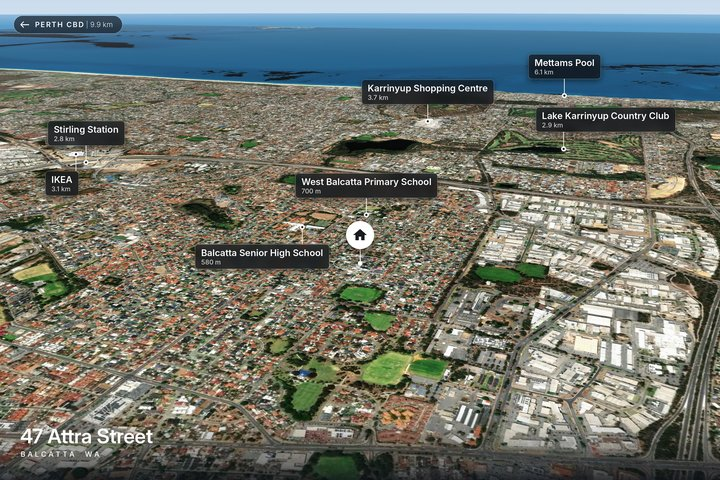
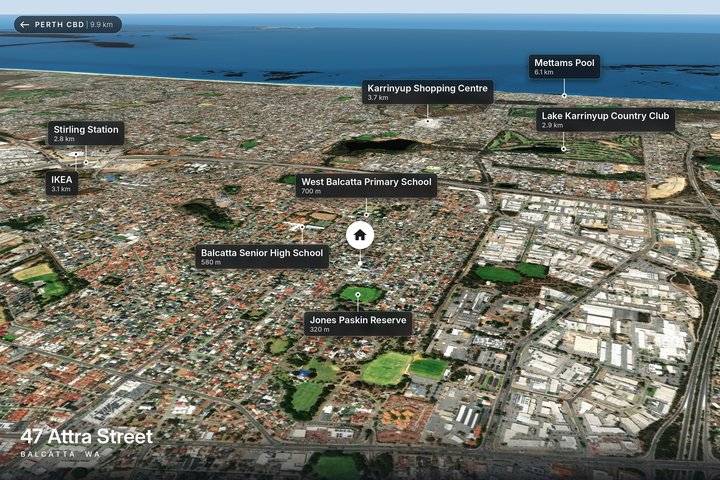
47 Attra St: location maps (clean + red), Jones Paskin Reserve marked
Claude-Session: https://claude.ai/code/session_01A5qGg2LnJXxgSHoMQFvEEG

Changed region(s): [[0.3972, 0.5938, 0.5806, 0.7188]]

diff --git a/aerials/27-oct-2026/index.html b/aerials/27-oct-2026/index.html
@@ -5,4 +5,4 @@ body{margin:0;background:var(--bg);color:var(--fg);font:15px/1.45 system-ui,-app
 header,section{max-width:1400px;margin:auto;padding:18px 16px}h1{font-size:20px;margin:0}h2{font-size:17px;margin:0}header p,section p{color:var(--mut);margin:4px 0 0}
 .ed{margin-left:10px;color:var(--acc);font-weight:600;text-decoration:none}a{color:var(--acc)}
 .chk{margin-top:10px}.chk summary{cursor:pointer;color:var(--mut);font-weight:600}.chk iframe{width:100%;height:420px;border:0;border-radius:6px;margin-top:6px;background:#111}.g{display:grid;grid-template-columns:repeat(auto-fill,minmax(280px,1fr));gap:8px;margin-top:10px}.g img{width:100%;display:block;border-radius:4px}</style></head>
-<body><header><h1>Drone edits — Tue 27 Oct 2026</h1><p>Tap a photo for full size. <b>Edit</b> opens the job in the <a href="/pins/">editor</a> with all its pins and settings.</p></header><section><h2>218 North Beach Dr, Tuart Hill</h2><p>Stephanie Briers · Professionals · 13 photos <a class="ed" href="/pins/?open=27-oct-2026/218_north_beach_dr">Edit</a></p><div class="g"><a href="218_north_beach_dr/dji_fly_20261027_150818_0904_1793084705926_photo.jpg?v=1793133531" target="_blank"><img loading="lazy" src="218_north_beach_dr/t/dji_fly_20261027_150818_0904_1793084705926_photo.jpg?v=1793133531" alt=""></a><a href="218_north_beach_dr/dji_fly_20261027_150852_0906_1793084703012_photo.jpg?v=1793133531" target="_blank"><img loading="lazy" src="218_north_beach_dr/t/dji_fly_20261027_150852_0906_1793084703012_photo.jpg?v=1793133531" alt=""></a><a href="218_north_beach_dr/dji_fly_20261027_150910_0907_1793084701634_photo.jpg?v=1793133531" target="_blank"><img loading="lazy" src="218_north_beach_dr/t/dji_fly_20261027_150910_0907_1793084701634_photo.jpg?v=1793133531" alt=""></a><a href="218_north_beach_dr/dji_fly_20261027_150938_0908_1793084700212_photo.jpg?v=1793133531" target="_blank"><img loading="lazy" src="218_north_beach_dr/t/dji_fly_20261027_150938_0908_1793084700212_photo.jpg?v=1793133531" alt=""></a><a href="218_north_beach_dr/dji_fly_20261027_150948_0909_1793084698807_photo.jpg?v=1793133531" target="_blank"><img loading="lazy" src="218_north_beach_dr/t/dji_fly_20261027_150948_0909_1793084698807_photo.jpg?v=1793133531" alt=""></a><a href="218_north_beach_dr/dji_fly_20261027_151000_0910_1793084697396_photo.jpg?v=1793133531" target="_blank"><img loading="lazy" src="218_north_beach_dr/t/dji_fly_20261027_151000_0910_1793084697396_photo.jpg?v=1793133531" alt=""></a><a href="218_north_beach_dr/dji_fly_20261027_151032_0911_1793084695909_photo.jpg?v=1793133531" target="_blank"><img loading="lazy" src="218_north_beach_dr/t/dji_fly_20261027_151032_0911_1793084695909_photo.jpg?v=1793133531" alt=""></a><a href="218_north_beach_dr/dji_fly_20261027_151100_0912_1793084694451_photo.jpg?v=1793133531" target="_blank"><img loading="lazy" src="218_north_beach_dr/t/dji_fly_20261027_151100_0912_1793084694451_photo.jpg?v=1793133531" alt=""></a><a href="218_north_beach_dr/dji_fly_20261027_151114_0913_1793084693051_photo.jpg?v=1793133531" target="_blank"><img loading="lazy" src="218_north_beach_dr/t/dji_fly_20261027_151114_0913_1793084693051_photo.jpg?v=1793133531" alt=""></a><a href="218_north_beach_dr/dji_fly_20261027_151128_0914_1793084691646_photo.jpg?v=1793133531" target="_blank"><img loading="lazy" src="218_north_beach_dr/t/dji_fly_20261027_151128_0914_1793084691646_photo.jpg?v=1793133531" alt=""></a><a href="218_north_beach_dr/dji_fly_20261027_151138_0915_1793084690227_photo.jpg?v=1793133531" target="_blank"><img loading="lazy" src="218_north_beach_dr/t/dji_fly_20261027_151138_0915_1793084690227_photo.jpg?v=1793133531" alt=""></a><a href="218_north_beach_dr/dji_fly_20261027_151152_0916_1793084688823_photo.jpg?v=1793133531" target="_blank"><img loading="lazy" src="218_north_beach_dr/t/dji_fly_20261027_151152_0916_1793084688823_photo.jpg?v=1793133531" alt=""></a><a href="218_north_beach_dr/dji_fly_20261027_151200_0917_1793084687391_photo.jpg?v=1793133531" target="_blank"><img loading="lazy" src="218_north_beach_dr/t/dji_fly_20261027_151200_0917_1793084687391_photo.jpg?v=1793133531" alt=""></a></div></section><section><h2>41 St Kilda Rd, Balga</h2><p>Emma Scharf · Professionals · 9 photos <a class="ed" href="/pins/?open=27-oct-2026/41_st_kilda_rd">Edit</a></p><div class="g"><a href="41_st_kilda_rd/dji_fly_20261027_120152_0892_1793084725908_photo.jpg?v=1793133538" target="_blank"><img loading="lazy" src="41_st_kilda_rd/t/dji_fly_20261027_120152_0892_1793084725908_photo.jpg?v=1793133538" alt=""></a><a href="41_st_kilda_rd/dji_fly_20261027_120208_0893_1793084724563_photo.jpg?v=1793133538" target="_blank"><img loading="lazy" src="41_st_kilda_rd/t/dji_fly_20261027_120208_0893_1793084724563_photo.jpg?v=1793133538" alt=""></a><a href="41_st_kilda_rd/dji_fly_20261027_120238_0894_1793084723192_photo.jpg?v=1793133538" target="_blank"><img loading="lazy" src="41_st_kilda_rd/t/dji_fly_20261027_120238_0894_1793084723192_photo.jpg?v=1793133538" alt=""></a><a href="41_st_kilda_rd/dji_fly_20261027_120258_0895_1793084721818_photo.jpg?v=1793133538" target="_blank"><img loading="lazy" src="41_st_kilda_rd/t/dji_fly_20261027_120258_0895_1793084721818_photo.jpg?v=1793133538" alt=""></a><a href="41_st_kilda_rd/dji_fly_20261027_120318_0896_1793084720496_photo.jpg?v=1793133538" target="_blank"><img loading="lazy" src="41_st_kilda_rd/t/dji_fly_20261027_120318_0896_1793084720496_photo.jpg?v=1793133538" alt=""></a><a href="41_st_kilda_rd/dji_fly_20261027_120334_0897_1793084719060_photo.jpg?v=1793133538" target="_blank"><img loading="lazy" src="41_st_kilda_rd/t/dji_fly_20261027_120334_0897_1793084719060_photo.jpg?v=1793133538" alt=""></a><a href="41_st_kilda_rd/dji_fly_20261027_120400_0898_1793084717514_photo.jpg?v=1793133538" target="_blank"><img loading="lazy" src="41_st_kilda_rd/t/dji_fly_20261027_120400_0898_1793084717514_photo.jpg?v=1793133538" alt=""></a><a href="41_st_kilda_rd/dji_fly_20261027_120412_0899_1793084715431_photo.jpg?v=1793133538" target="_blank"><img loading="lazy" src="41_st_kilda_rd/t/dji_fly_20261027_120412_0899_1793084715431_photo.jpg?v=1793133538" alt=""></a><a href="41_st_kilda_rd/dji_fly_20261027_123924_0900_1793084713356_photo.jpg?v=1793133538" target="_blank"><img loading="lazy" src="41_st_kilda_rd/t/dji_fly_20261027_123924_0900_1793084713356_photo.jpg?v=1793133538" alt=""></a></div></section><section><h2>4/17 Forest Hill Dr, Kingsley</h2><p>James Kennedy · Professionals Kingsley · 8 photos <a class="ed" href="/pins/?open=27-oct-2026/4_17_forest_hill_dr">Edit</a><a class="ed" href="4_17_forest_hill_dr/check.html" target="_blank">Check map</a></p><div class="g"><a href="4_17_forest_hill_dr/DJI_20261027190736_0143_D.jpg?v=1793228198" target="_blank"><img loading="lazy" src="4_17_forest_hill_dr/t/DJI_20261027190736_0143_D.jpg?v=1793228198" alt=""></a><a href="4_17_forest_hill_dr/DJI_20261027190751_0144_D.jpg?v=1793228198" target="_blank"><img loading="lazy" src="4_17_forest_hill_dr/t/DJI_20261027190751_0144_D.jpg?v=1793228198" alt=""></a><a href="4_17_forest_hill_dr/DJI_20261027190811_0145_D.jpg?v=1793228198" target="_blank"><img loading="lazy" src="4_17_forest_hill_dr/t/DJI_20261027190811_0145_D.jpg?v=1793228198" alt=""></a><a href="4_17_forest_hill_dr/DJI_20261027190831_0146_D.jpg?v=1793228198" target="_blank"><img loading="lazy" src="4_17_forest_hill_dr/t/DJI_20261027190831_0146_D.jpg?v=1793228198" alt=""></a><a href="4_17_forest_hill_dr/DJI_20261027190850_0147_D.jpg?v=1793228199" target="_blank"><img loading="lazy" src="4_17_forest_hill_dr/t/DJI_20261027190850_0147_D.jpg?v=1793228199" alt=""></a><a href="4_17_forest_hill_dr/DJI_20261027190910_0148_D.jpg?v=1793228199" target="_blank"><img loading="lazy" src="4_17_forest_hill_dr/t/DJI_20261027190910_0148_D.jpg?v=1793228199" alt=""></a><a href="4_17_forest_hill_dr/DJI_20261027190924_0149_D.jpg?v=1793228199" target="_blank"><img loading="lazy" src="4_17_forest_hill_dr/t/DJI_20261027190924_0149_D.jpg?v=1793228199" alt=""></a><a href="4_17_forest_hill_dr/DJI_20261027190945_0150_D.jpg?v=1793228199" target="_blank"><img loading="lazy" src="4_17_forest_hill_dr/t/DJI_20261027190945_0150_D.jpg?v=1793228199" alt=""></a></div><details class="chk" open><summary>Quick check — boundary + 19 pinned places</summary><iframe loading="lazy" src="4_17_forest_hill_dr/check.html?v=1793228201" title="Boundary and places check"></iframe></details></section><section><h2>209 Barridale Dr, Kingsley</h2><p>James Kennedy · Professionals Kingsley · 6 photos (top-down first) <a class="ed" href="/pins/?open=27-oct-2026/209_barridale_dr">Edit</a><a class="ed" href="209_barridale_dr/check.html" target="_blank">Check map</a></p><div class="g"><a href="209_barridale_dr/DJI_20261027164443_0137_D.jpg?v=1793228218" target="_blank"><img loading="lazy" src="209_barridale_dr/t/DJI_20261027164443_0137_D.jpg?v=1793228218" alt=""></a><a href="209_barridale_dr/DJI_20261027164541_0138_D.jpg?v=1793228219" target="_blank"><img loading="lazy" src="209_barridale_dr/t/DJI_20261027164541_0138_D.jpg?v=1793228219" alt=""></a><a href="209_barridale_dr/DJI_20261027164558_0139_D.jpg?v=1793228219" target="_blank"><img loading="lazy" src="209_barridale_dr/t/DJI_20261027164558_0139_D.jpg?v=1793228219" alt=""></a><a href="209_barridale_dr/DJI_20261027164625_0140_D.jpg?v=1793228219" target="_blank"><img loading="lazy" src="209_barridale_dr/t/DJI_20261027164625_0140_D.jpg?v=1793228219" alt=""></a><a href="209_barridale_dr/DJI_20261027164659_0141_D.jpg?v=1793228220" target="_blank"><img loading="lazy" src="209_barridale_dr/t/DJI_20261027164659_0141_D.jpg?v=1793228220" alt=""></a><a href="209_barridale_dr/DJI_20261027164724_0142_D.jpg?v=1793228220" target="_blank"><img loading="lazy" src="209_barridale_dr/t/DJI_20261027164724_0142_D.jpg?v=1793228220" alt=""></a></div><details class="chk" open><summary>Quick check — boundary + 14 pinned places</summary><iframe loading="lazy" src="209_barridale_dr/check.html?v=1793228221" title="Boundary and places check"></iframe></details></section><section><h2>47 Attra St, Balcatta</h2><p>Jenny Fry · City to Surf · 6 photos (top-downs first) <a class="ed" href="/pins/?open=27-oct-2026/47_attra_st">Edit</a><a class="ed" href="47_attra_st/check.html" target="_blank">Check map</a></p><div class="g"><a href="47_attra_st/DJI_20261027201407_0152_D.jpg?v=1793230412" target="_blank"><img loading="lazy" src="47_attra_st/t/DJI_20261027201407_0152_D.jpg?v=1793230412" alt=""></a><a href="47_attra_st/DJI_20261027201357_0151_D.jpg?v=1793230412" target="_blank"><img loading="lazy" src="47_attra_st/t/DJI_20261027201357_0151_D.jpg?v=1793230412" alt=""></a><a href="47_attra_st/DJI_20261027201444_0154_D.jpg?v=1793230412" target="_blank"><img loading="lazy" src="47_attra_st/t/DJI_20261027201444_0154_D.jpg?v=1793230412" alt=""></a><a href="47_attra_st/DJI_20261027201539_0158_D.jpg?v=1793230412" target="_blank"><img loading="lazy" src="47_attra_st/t/DJI_20261027201539_0158_D.jpg?v=1793230412" alt=""></a><a href="47_attra_st/DJI_20261027201608_0160_D.jpg?v=1793230412" target="_blank"><img loading="lazy" src="47_attra_st/t/DJI_20261027201608_0160_D.jpg?v=1793230412" alt=""></a><a href="47_attra_st/satellite_map.jpg?v=1793230412" target="_blank"><img loading="lazy" src="47_attra_st/t/satellite_map.jpg?v=1793230412" alt=""></a><a href="47_attra_st/location_map.jpg?v=1793232980" target="_blank"><img loading="lazy" src="47_attra_st/t/location_map.jpg?v=1793232980" alt=""></a></div><details class="chk" open><summary>Quick check — boundary + 15 pinned places</summary><iframe loading="lazy" src="47_attra_st/check.html?v=1793230413" title="Boundary and places check"></iframe></details></section><section><h2>18 Wonderboom Way, Forrestfield</h2><p>David Huynh · Harcourts · 9 photos (top-downs first) <a class="ed" href="/pins/?open=27-oct-2026/18_wonderboom_way">Edit</a><a class="ed" href="18_wonderboom_way/check.html" target="_blank">Check map</a></p><div class="g"><a href="18_wonderboom_way/DJI_20261027153704_0025_D.jpg?v=1793230668" target="_blank"><img loading="lazy" src="18_wonderboom_way/t/DJI_20261027153704_0025_D.jpg?v=1793230668" alt=""></a><a href="18_wonderboom_way/DJI_20261027153655_0024_D.jpg?v=1793230668" target="_blank"><img loading="lazy" src="18_wonderboom_way/t/DJI_20261027153655_0024_D.jpg?v=1793230668" alt=""></a><a href="18_wonderboom_way/DJI_20261027153728_0026_D.jpg?v=1793230668" target="_blank"><img loading="lazy" src="18_wonderboom_way/t/DJI_20261027153728_0026_D.jpg?v=1793230668" alt=""></a><a href="18_wonderboom_way/DJI_20261027153750_0027_D.jpg?v=1793230668" target="_blank"><img loading="lazy" src="18_wonderboom_way/t/DJI_20261027153750_0027_D.jpg?v=1793230668" alt=""></a><a href="18_wonderboom_way/DJI_20261027153805_0028_D.jpg?v=1793230668" target="_blank"><img loading="lazy" src="18_wonderboom_way/t/DJI_20261027153805_0028_D.jpg?v=1793230668" alt=""></a><a href="18_wonderboom_way/DJI_20261027153822_0029_D.jpg?v=1793230669" target="_blank"><img loading="lazy" src="18_wonderboom_way/t/DJI_20261027153822_0029_D.jpg?v=1793230669" alt=""></a><a href="18_wonderboom_way/DJI_20261027153841_0030_D.jpg?v=1793230669" target="_blank"><img loading="lazy" src="18_wonderboom_way/t/DJI_20261027153841_0030_D.jpg?v=1793230669" alt=""></a><a href="18_wonderboom_way/DJI_20261027153857_0031_D.jpg?v=1793230669" target="_blank"><img loading="lazy" src="18_wonderboom_way/t/DJI_20261027153857_0031_D.jpg?v=1793230669" alt=""></a><a href="18_wonderboom_way/DJI_20261027153910_0032_D.jpg?v=1793230669" target="_blank"><img loading="lazy" src="18_wonderboom_way/t/DJI_20261027153910_0032_D.jpg?v=1793230669" alt=""></a></div><details class="chk" open><summary>Quick check — boundary + 6 pinned places</summary><iframe loading="lazy" src="18_wonderboom_way/check.html?v=1793230670" title="Boundary and places check"></iframe></details></section></body></html>
+<body><header><h1>Drone edits — Tue 27 Oct 2026</h1><p>Tap a photo for full size. <b>Edit</b> opens the job in the <a href="/pins/">editor</a> with all its pins and settings.</p></header><section><h2>218 North Beach Dr, Tuart Hill</h2><p>Stephanie Briers · Professionals · 13 photos <a class="ed" href="/pins/?open=27-oct-2026/218_north_beach_dr">Edit</a></p><div class="g"><a href="218_north_beach_dr/dji_fly_20261027_150818_0904_1793084705926_photo.jpg?v=1793133531" target="_blank"><img loading="lazy" src="218_north_beach_dr/t/dji_fly_20261027_150818_0904_1793084705926_photo.jpg?v=1793133531" alt=""></a><a href="218_north_beach_dr/dji_fly_20261027_150852_0906_1793084703012_photo.jpg?v=1793133531" target="_blank"><img loading="lazy" src="218_north_beach_dr/t/dji_fly_20261027_150852_0906_1793084703012_photo.jpg?v=1793133531" alt=""></a><a href="218_north_beach_dr/dji_fly_20261027_150910_0907_1793084701634_photo.jpg?v=1793133531" target="_blank"><img loading="lazy" src="218_north_beach_dr/t/dji_fly_20261027_150910_0907_1793084701634_photo.jpg?v=1793133531" alt=""></a><a href="218_north_beach_dr/dji_fly_20261027_150938_0908_1793084700212_photo.jpg?v=1793133531" target="_blank"><img loading="lazy" src="218_north_beach_dr/t/dji_fly_20261027_150938_0908_1793084700212_photo.jpg?v=1793133531" alt=""></a><a href="218_north_beach_dr/dji_fly_20261027_150948_0909_1793084698807_photo.jpg?v=1793133531" target="_blank"><img loading="lazy" src="218_north_beach_dr/t/dji_fly_20261027_150948_0909_1793084698807_photo.jpg?v=1793133531" alt=""></a><a href="218_north_beach_dr/dji_fly_20261027_151000_0910_1793084697396_photo.jpg?v=1793133531" target="_blank"><img loading="lazy" src="218_north_beach_dr/t/dji_fly_20261027_151000_0910_1793084697396_photo.jpg?v=1793133531" alt=""></a><a href="218_north_beach_dr/dji_fly_20261027_151032_0911_1793084695909_photo.jpg?v=1793133531" target="_blank"><img loading="lazy" src="218_north_beach_dr/t/dji_fly_20261027_151032_0911_1793084695909_photo.jpg?v=1793133531" alt=""></a><a href="218_north_beach_dr/dji_fly_20261027_151100_0912_1793084694451_photo.jpg?v=1793133531" target="_blank"><img loading="lazy" src="218_north_beach_dr/t/dji_fly_20261027_151100_0912_1793084694451_photo.jpg?v=1793133531" alt=""></a><a href="218_north_beach_dr/dji_fly_20261027_151114_0913_1793084693051_photo.jpg?v=1793133531" target="_blank"><img loading="lazy" src="218_north_beach_dr/t/dji_fly_20261027_151114_0913_1793084693051_photo.jpg?v=1793133531" alt=""></a><a href="218_north_beach_dr/dji_fly_20261027_151128_0914_1793084691646_photo.jpg?v=1793133531" target="_blank"><img loading="lazy" src="218_north_beach_dr/t/dji_fly_20261027_151128_0914_1793084691646_photo.jpg?v=1793133531" alt=""></a><a href="218_north_beach_dr/dji_fly_20261027_151138_0915_1793084690227_photo.jpg?v=1793133531" target="_blank"><img loading="lazy" src="218_north_beach_dr/t/dji_fly_20261027_151138_0915_1793084690227_photo.jpg?v=1793133531" alt=""></a><a href="218_north_beach_dr/dji_fly_20261027_151152_0916_1793084688823_photo.jpg?v=1793133531" target="_blank"><img loading="lazy" src="218_north_beach_dr/t/dji_fly_20261027_151152_0916_1793084688823_photo.jpg?v=1793133531" alt=""></a><a href="218_north_beach_dr/dji_fly_20261027_151200_0917_1793084687391_photo.jpg?v=1793133531" target="_blank"><img loading="lazy" src="218_north_beach_dr/t/dji_fly_20261027_151200_0917_1793084687391_photo.jpg?v=1793133531" alt=""></a></div></section><section><h2>41 St Kilda Rd, Balga</h2><p>Emma Scharf · Professionals · 9 photos <a class="ed" href="/pins/?open=27-oct-2026/41_st_kilda_rd">Edit</a></p><div class="g"><a href="41_st_kilda_rd/dji_fly_20261027_120152_0892_1793084725908_photo.jpg?v=1793133538" target="_blank"><img loading="lazy" src="41_st_kilda_rd/t/dji_fly_20261027_120152_0892_1793084725908_photo.jpg?v=1793133538" alt=""></a><a href="41_st_kilda_rd/dji_fly_20261027_120208_0893_1793084724563_photo.jpg?v=1793133538" target="_blank"><img loading="lazy" src="41_st_kilda_rd/t/dji_fly_20261027_120208_0893_1793084724563_photo.jpg?v=1793133538" alt=""></a><a href="41_st_kilda_rd/dji_fly_20261027_120238_0894_1793084723192_photo.jpg?v=1793133538" target="_blank"><img loading="lazy" src="41_st_kilda_rd/t/dji_fly_20261027_120238_0894_1793084723192_photo.jpg?v=1793133538" alt=""></a><a href="41_st_kilda_rd/dji_fly_20261027_120258_0895_1793084721818_photo.jpg?v=1793133538" target="_blank"><img loading="lazy" src="41_st_kilda_rd/t/dji_fly_20261027_120258_0895_1793084721818_photo.jpg?v=1793133538" alt=""></a><a href="41_st_kilda_rd/dji_fly_20261027_120318_0896_1793084720496_photo.jpg?v=1793133538" target="_blank"><img loading="lazy" src="41_st_kilda_rd/t/dji_fly_20261027_120318_0896_1793084720496_photo.jpg?v=1793133538" alt=""></a><a href="41_st_kilda_rd/dji_fly_20261027_120334_0897_1793084719060_photo.jpg?v=1793133538" target="_blank"><img loading="lazy" src="41_st_kilda_rd/t/dji_fly_20261027_120334_0897_1793084719060_photo.jpg?v=1793133538" alt=""></a><a href="41_st_kilda_rd/dji_fly_20261027_120400_0898_1793084717514_photo.jpg?v=1793133538" target="_blank"><img loading="lazy" src="41_st_kilda_rd/t/dji_fly_20261027_120400_0898_1793084717514_photo.jpg?v=1793133538" alt=""></a><a href="41_st_kilda_rd/dji_fly_20261027_120412_0899_1793084715431_photo.jpg?v=1793133538" target="_blank"><img loading="lazy" src="41_st_kilda_rd/t/dji_fly_20261027_120412_0899_1793084715431_photo.jpg?v=1793133538" alt=""></a><a href="41_st_kilda_rd/dji_fly_20261027_123924_0900_1793084713356_photo.jpg?v=1793133538" target="_blank"><img loading="lazy" src="41_st_kilda_rd/t/dji_fly_20261027_123924_0900_1793084713356_photo.jpg?v=1793133538" alt=""></a></div></section><section><h2>4/17 Forest Hill Dr, Kingsley</h2><p>James Kennedy · Professionals Kingsley · 8 photos <a class="ed" href="/pins/?open=27-oct-2026/4_17_forest_hill_dr">Edit</a><a class="ed" href="4_17_forest_hill_dr/check.html" target="_blank">Check map</a></p><div class="g"><a href="4_17_forest_hill_dr/DJI_20261027190736_0143_D.jpg?v=1793228198" target="_blank"><img loading="lazy" src="4_17_forest_hill_dr/t/DJI_20261027190736_0143_D.jpg?v=1793228198" alt=""></a><a href="4_17_forest_hill_dr/DJI_20261027190751_0144_D.jpg?v=1793228198" target="_blank"><img loading="lazy" src="4_17_forest_hill_dr/t/DJI_20261027190751_0144_D.jpg?v=1793228198" alt=""></a><a href="4_17_forest_hill_dr/DJI_20261027190811_0145_D.jpg?v=1793228198" target="_blank"><img loading="lazy" src="4_17_forest_hill_dr/t/DJI_20261027190811_0145_D.jpg?v=1793228198" alt=""></a><a href="4_17_forest_hill_dr/DJI_20261027190831_0146_D.jpg?v=1793228198" target="_blank"><img loading="lazy" src="4_17_forest_hill_dr/t/DJI_20261027190831_0146_D.jpg?v=1793228198" alt=""></a><a href="4_17_forest_hill_dr/DJI_20261027190850_0147_D.jpg?v=1793228199" target="_blank"><img loading="lazy" src="4_17_forest_hill_dr/t/DJI_20261027190850_0147_D.jpg?v=1793228199" alt=""></a><a href="4_17_forest_hill_dr/DJI_20261027190910_0148_D.jpg?v=1793228199" target="_blank"><img loading="lazy" src="4_17_forest_hill_dr/t/DJI_20261027190910_0148_D.jpg?v=1793228199" alt=""></a><a href="4_17_forest_hill_dr/DJI_20261027190924_0149_D.jpg?v=1793228199" target="_blank"><img loading="lazy" src="4_17_forest_hill_dr/t/DJI_20261027190924_0149_D.jpg?v=1793228199" alt=""></a><a href="4_17_forest_hill_dr/DJI_20261027190945_0150_D.jpg?v=1793228199" target="_blank"><img loading="lazy" src="4_17_forest_hill_dr/t/DJI_20261027190945_0150_D.jpg?v=1793228199" alt=""></a></div><details class="chk" open><summary>Quick check — boundary + 19 pinned places</summary><iframe loading="lazy" src="4_17_forest_hill_dr/check.html?v=1793228201" title="Boundary and places check"></iframe></details></section><section><h2>209 Barridale Dr, Kingsley</h2><p>James Kennedy · Professionals Kingsley · 6 photos (top-down first) <a class="ed" href="/pins/?open=27-oct-2026/209_barridale_dr">Edit</a><a class="ed" href="209_barridale_dr/check.html" target="_blank">Check map</a></p><div class="g"><a href="209_barridale_dr/DJI_20261027164443_0137_D.jpg?v=1793228218" target="_blank"><img loading="lazy" src="209_barridale_dr/t/DJI_20261027164443_0137_D.jpg?v=1793228218" alt=""></a><a href="209_barridale_dr/DJI_20261027164541_0138_D.jpg?v=1793228219" target="_blank"><img loading="lazy" src="209_barridale_dr/t/DJI_20261027164541_0138_D.jpg?v=1793228219" alt=""></a><a href="209_barridale_dr/DJI_20261027164558_0139_D.jpg?v=1793228219" target="_blank"><img loading="lazy" src="209_barridale_dr/t/DJI_20261027164558_0139_D.jpg?v=1793228219" alt=""></a><a href="209_barridale_dr/DJI_20261027164625_0140_D.jpg?v=1793228219" target="_blank"><img loading="lazy" src="209_barridale_dr/t/DJI_20261027164625_0140_D.jpg?v=1793228219" alt=""></a><a href="209_barridale_dr/DJI_20261027164659_0141_D.jpg?v=1793228220" target="_blank"><img loading="lazy" src="209_barridale_dr/t/DJI_20261027164659_0141_D.jpg?v=1793228220" alt=""></a><a href="209_barridale_dr/DJI_20261027164724_0142_D.jpg?v=1793228220" target="_blank"><img loading="lazy" src="209_barridale_dr/t/DJI_20261027164724_0142_D.jpg?v=1793228220" alt=""></a></div><details class="chk" open><summary>Quick check — boundary + 14 pinned places</summary><iframe loading="lazy" src="209_barridale_dr/check.html?v=1793228221" title="Boundary and places check"></iframe></details></section><section><h2>47 Attra St, Balcatta</h2><p>Jenny Fry · City to Surf · 6 photos (top-downs first) <a class="ed" href="/pins/?open=27-oct-2026/47_attra_st">Edit</a><a class="ed" href="47_attra_st/check.html" target="_blank">Check map</a></p><div class="g"><a href="47_attra_st/DJI_20261027201407_0152_D.jpg?v=1793230412" target="_blank"><img loading="lazy" src="47_attra_st/t/DJI_20261027201407_0152_D.jpg?v=1793230412" alt=""></a><a href="47_attra_st/DJI_20261027201357_0151_D.jpg?v=1793230412" target="_blank"><img loading="lazy" src="47_attra_st/t/DJI_20261027201357_0151_D.jpg?v=1793230412" alt=""></a><a href="47_attra_st/DJI_20261027201444_0154_D.jpg?v=1793230412" target="_blank"><img loading="lazy" src="47_attra_st/t/DJI_20261027201444_0154_D.jpg?v=1793230412" alt=""></a><a href="47_attra_st/DJI_20261027201539_0158_D.jpg?v=1793230412" target="_blank"><img loading="lazy" src="47_attra_st/t/DJI_20261027201539_0158_D.jpg?v=1793230412" alt=""></a><a href="47_attra_st/DJI_20261027201608_0160_D.jpg?v=1793230412" target="_blank"><img loading="lazy" src="47_attra_st/t/DJI_20261027201608_0160_D.jpg?v=1793230412" alt=""></a><a href="47_attra_st/satellite_map.jpg?v=1793230412" target="_blank"><img loading="lazy" src="47_attra_st/t/satellite_map.jpg?v=1793230412" alt=""></a><a href="47_attra_st/location_map.jpg?v=1793233299" target="_blank"><img loading="lazy" src="47_attra_st/t/location_map.jpg?v=1793233299" alt=""></a><a href="47_attra_st/location_map_red.jpg?v=1793233299" target="_blank"><img loading="lazy" src="47_attra_st/t/location_map_red.jpg?v=1793233299" alt=""></a></div><details class="chk" open><summary>Quick check — boundary + 15 pinned places</summary><iframe loading="lazy" src="47_attra_st/check.html?v=1793230413" title="Boundary and places check"></iframe></details></section><section><h2>18 Wonderboom Way, Forrestfield</h2><p>David Huynh · Harcourts · 9 photos (top-downs first) <a class="ed" href="/pins/?open=27-oct-2026/18_wonderboom_way">Edit</a><a class="ed" href="18_wonderboom_way/check.html" target="_blank">Check map</a></p><div class="g"><a href="18_wonderboom_way/DJI_20261027153704_0025_D.jpg?v=1793230668" target="_blank"><img loading="lazy" src="18_wonderboom_way/t/DJI_20261027153704_0025_D.jpg?v=1793230668" alt=""></a><a href="18_wonderboom_way/DJI_20261027153655_0024_D.jpg?v=1793230668" target="_blank"><img loading="lazy" src="18_wonderboom_way/t/DJI_20261027153655_0024_D.jpg?v=1793230668" alt=""></a><a href="18_wonderboom_way/DJI_20261027153728_0026_D.jpg?v=1793230668" target="_blank"><img loading="lazy" src="18_wonderboom_way/t/DJI_20261027153728_0026_D.jpg?v=1793230668" alt=""></a><a href="18_wonderboom_way/DJI_20261027153750_0027_D.jpg?v=1793230668" target="_blank"><img loading="lazy" src="18_wonderboom_way/t/DJI_20261027153750_0027_D.jpg?v=1793230668" alt=""></a><a href="18_wonderboom_way/DJI_20261027153805_0028_D.jpg?v=1793230668" target="_blank"><img loading="lazy" src="18_wonderboom_way/t/DJI_20261027153805_0028_D.jpg?v=1793230668" alt=""></a><a href="18_wonderboom_way/DJI_20261027153822_0029_D.jpg?v=1793230669" target="_blank"><img loading="lazy" src="18_wonderboom_way/t/DJI_20261027153822_0029_D.jpg?v=1793230669" alt=""></a><a href="18_wonderboom_way/DJI_20261027153841_0030_D.jpg?v=1793230669" target="_blank"><img loading="lazy" src="18_wonderboom_way/t/DJI_20261027153841_0030_D.jpg?v=1793230669" alt=""></a><a href="18_wonderboom_way/DJI_20261027153857_0031_D.jpg?v=1793230669" target="_blank"><img loading="lazy" src="18_wonderboom_way/t/DJI_20261027153857_0031_D.jpg?v=1793230669" alt=""></a><a href="18_wonderboom_way/DJI_20261027153910_0032_D.jpg?v=1793230669" target="_blank"><img loading="lazy" src="18_wonderboom_way/t/DJI_20261027153910_0032_D.jpg?v=1793230669" alt=""></a></div><details class="chk" open><summary>Quick check — boundary + 6 pinned places</summary><iframe loading="lazy" src="18_wonderboom_way/check.html?v=1793230670" title="Boundary and places check"></iframe></details></section></body></html>
